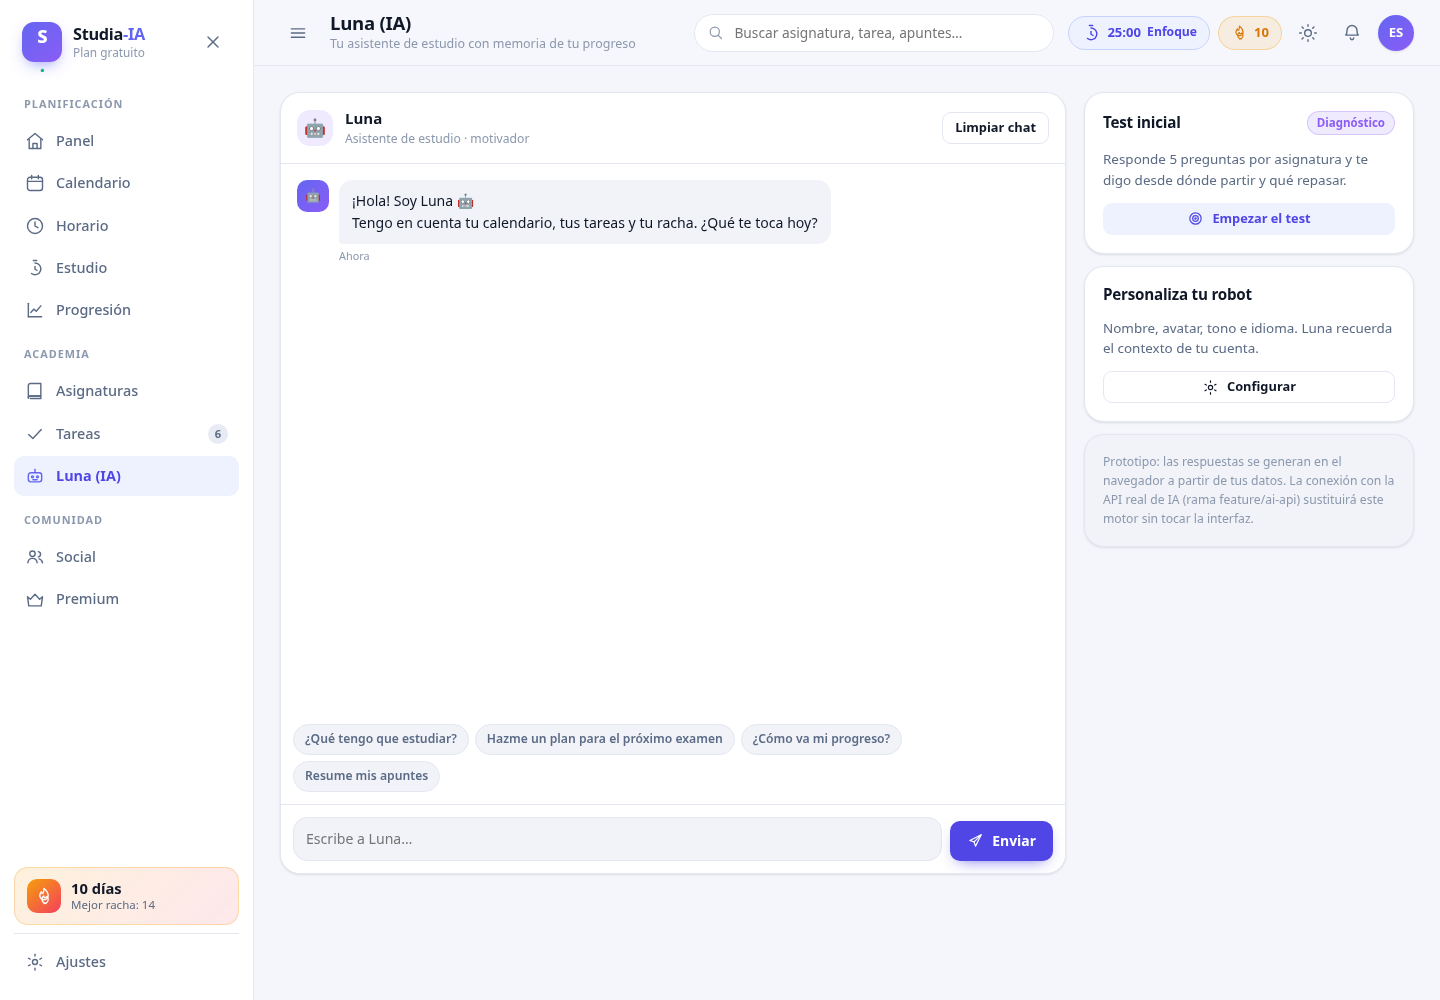
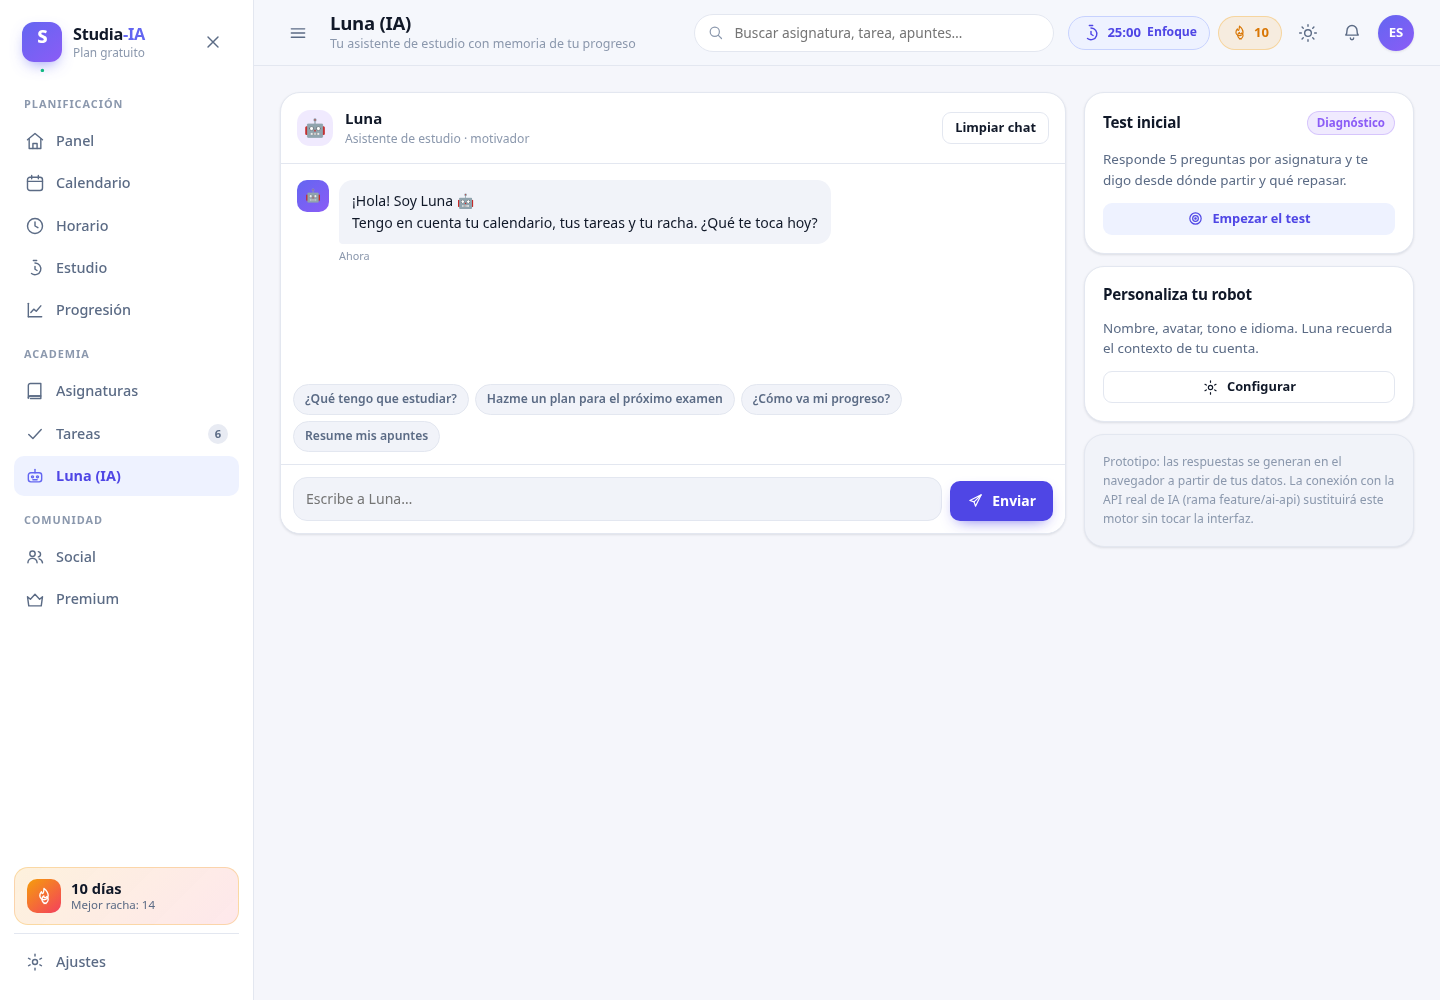
fix(scroll): la rueda del ratón no bajaba en algunas páginas
- base.css: barra de desplazamiento siempre visible y estilizada
- base.css: min-height en html/body (evita el bloqueo de scroll en WebKit)
- views.css: overflow: clip en hero/calendario/horario/asignaturas
  (overflow: hidden creaba contenedores que se comían la rueda)
- views.css: el chat usa max-height en vez de alto fijo
- layout.css: el menú lateral se compacta en pantallas bajas
- main.js: red de seguridad de scroll + botón 'volver arriba'

diff --git a/assets/js/main.js b/assets/js/main.js
@@ -320,6 +320,54 @@
     });
   }
 
+  /* ---------------- Scroll ----------------
+     Red de seguridad: si la rueda del ratón cae sobre un elemento que NO
+     puede desplazarse (tarjetas, tablas, celdas...), se desplaza la página.
+     Sin esto hay navegadores donde el scroll "se queda" y no baja nada. */
+  function canScroll(node) {
+    if (!node || node === document.body || node === document.documentElement) return false;
+    var s = getComputedStyle(node);
+    if (!/(auto|scroll|overlay)/.test(s.overflowY)) return false;
+    return node.scrollHeight - node.clientHeight > 1;
+  }
+  function scrollableAncestor(node) {
+    while (node && node !== document.body) {
+      if (canScroll(node)) return node;
+      node = node.parentElement;
+    }
+    return null;
+  }
+  function wireScroll() {
+    document.addEventListener('wheel', function (e) {
+      if (e.ctrlKey || e.defaultPrevented) return;
+      if (document.body.style.overflow === 'hidden') return;          // hay un modal abierto
+      if (scrollableAncestor(e.target)) return;                     // ese contenedor se encarga
+      var se = document.scrollingElement || document.documentElement;
+      var max = se.scrollHeight - se.clientHeight;
+      if (max <= 1) return;                                          // no hay nada más abajo
+      var next = se.scrollTop + e.deltaY;
+      if (next <= 0 || next >= max) return;                          // ya está en el borde
+      e.preventDefault();
+      se.scrollTop = next;
+    }, { passive: false });
+
+    /* Botón "volver arriba": deja claro que la página se ha desplazado. */
+    var top = U.h('button.to-top', { 'aria-label': 'Volver arriba', title: 'Volver arriba' }, U.icon('arrow-up'));
+    top.addEventListener('click', function () {
+      window.scrollTo({ top: 0, behavior: 'smooth' });
+    });
+    document.body.appendChild(top);
+    var ticking = false;
+    window.addEventListener('scroll', function () {
+      if (ticking) return;
+      ticking = true;
+      window.requestAnimationFrame(function () {
+        top.classList.toggle('is-visible', window.scrollY > 260);
+        ticking = false;
+      });
+    }, { passive: true });
+  }
+
   /* ---------------- Arranque ---------------- */
   function boot() {
     store.load();
@@ -335,6 +383,7 @@
     wireBell();
     wireProfile();
     wireShortcuts();
+    wireScroll();
     document.getElementById('btnTheme').addEventListener('click', toggleTheme);
     document.getElementById('btnSettings').addEventListener('click', openSettings);
 

diff --git a/assets/css/views.css b/assets/css/views.css
@@ -11,6 +11,7 @@
   border: 1px solid var(--border);
   border-radius: var(--radius-lg);
   overflow: hidden;
+  overflow: clip;
   box-shadow: var(--shadow-sm);
 }
 .cal__dow {
@@ -47,7 +48,7 @@
 .cal__head { display: flex; align-items: center; justify-content: space-between; gap: 4px; }
 .cal__num { font-size: .8rem; font-weight: 650; width: 24px; height: 24px; display: grid; place-items: center; }
 .cal__holiday { font-size: .68rem; color: var(--rose-500); font-weight: 600; line-height: 1.2; }
-.cal__events { display: flex; flex-direction: column; gap: 3px; margin-top: 2px; overflow: hidden; }
+.cal__events { display: flex; flex-direction: column; gap: 3px; margin-top: 2px; overflow: hidden; overflow: clip; }
 .cal__event {
   display: flex; align-items: center; gap: 5px;
   font-size: .7rem; font-weight: 600;
@@ -89,7 +90,7 @@
 }
 
 /* ================= Horario ================= */
-.tt { display: flex; flex-direction: column; border: 1px solid var(--border); border-radius: var(--radius-lg); overflow: hidden; box-shadow: var(--shadow-sm); background: var(--surface); }
+.tt { display: flex; flex-direction: column; border: 1px solid var(--border); border-radius: var(--radius-lg); overflow: hidden; overflow: clip; box-shadow: var(--shadow-sm); background: var(--surface); }
 .tt__head { display: grid; grid-template-columns: 64px repeat(5, minmax(0, 1fr)); background: var(--surface-2); }
 .tt__corner, .tt__day {
   padding: 10px 8px; text-align: center;
@@ -204,7 +205,8 @@
 /* ================= IA ================= */
 .chat {
   display: flex; flex-direction: column;
-  height: min(62vh, 560px);
+  max-height: min(62vh, 560px);
+  min-height: 220px;
   overflow-y: auto;
   padding: 16px;
   gap: 14px;
@@ -359,6 +361,7 @@
   box-shadow: var(--shadow-sm);
   position: relative;
   overflow: hidden;
+  overflow: clip;
 }
 .subject-card::before {
   content: ""; position: absolute; inset: 0 auto 0 0; width: 4px;
@@ -417,6 +420,7 @@
 .hero {
   position: relative;
   overflow: hidden;
+  overflow: clip;
   border-radius: var(--radius-xl);
   padding: 26px 28px;
   background: linear-gradient(135deg, var(--brand-600), var(--violet-500) 55%, #7c3aed);

diff --git a/assets/css/components.css b/assets/css/components.css
@@ -331,8 +331,30 @@
 }
 @keyframes shimmer { 0% { background-position: 100% 0; } 100% { background-position: 0 0; } }
 
+/* ---------- Volver arriba ---------- */
+.to-top {
+  position: fixed;
+  right: 22px; bottom: 22px;
+  width: 42px; height: 42px;
+  display: grid; place-items: center;
+  border-radius: 50%;
+  border: 1px solid var(--border);
+  background: var(--surface);
+  color: var(--text);
+  box-shadow: var(--shadow-md);
+  cursor: pointer;
+  opacity: 0; visibility: hidden;
+  transform: translateY(10px);
+  transition: opacity .2s ease, transform .2s ease, visibility .2s ease;
+  z-index: 45;
+}
+.to-top.is-visible { opacity: 1; visibility: visible; transform: none; }
+.to-top:hover { background: var(--brand-500); color: #fff; border-color: transparent; }
+.to-top .icon { width: 19px; height: 19px; }
+
 @media (max-width: 720px) {
   .modal { border-radius: var(--radius-lg); }
   .toast-root { left: 14px; right: 14px; bottom: 14px; }
   .toast { max-width: none; }
+  .to-top { right: 14px; bottom: 14px; width: 38px; height: 38px; }
 }

diff --git a/assets/css/base.css b/assets/css/base.css
@@ -88,7 +88,8 @@
 /* ---------- Reset ---------- */
 *, *::before, *::after { box-sizing: border-box; }
 
-html, body { height: 100%; }
+html, body { min-height: 100%; }
+html { overflow-y: scroll; }
 
 body {
   margin: 0;
@@ -100,6 +101,19 @@ body {
   -webkit-font-smoothing: antialiased;
   text-rendering: optimizeLegibility;
 }
+
+/* ---------- Barra de desplazamiento visible ----------
+   Con la barra siempre presente se ve de un vistazo que hay más contenido
+   abajo y siempre se puede arrastrar con el ratón. */
+::-webkit-scrollbar { width: 12px; height: 12px; }
+::-webkit-scrollbar-track { background: transparent; }
+::-webkit-scrollbar-thumb {
+  background: var(--border);
+  border: 3px solid var(--bg);
+  border-radius: 99px;
+}
+::-webkit-scrollbar-thumb:hover { background: var(--text-soft); }
+* { scrollbar-width: thin; scrollbar-color: var(--border) transparent; }
 
 h1, h2, h3, h4, h5 { margin: 0; font-weight: 700; letter-spacing: -.015em; line-height: 1.25; }
 h1 { font-size: 1.35rem; }

diff --git a/index.html b/index.html
@@ -34,6 +34,7 @@
     <symbol id="i-chev-down" viewBox="0 0 24 24"><path d="m6 9 6 6 6-6"/></symbol>
     <symbol id="i-close" viewBox="0 0 24 24"><path d="m6 6 12 12M18 6 6 18"/></symbol>
     <symbol id="i-menu" viewBox="0 0 24 24"><path d="M4 7h16M4 12h16M4 17h16"/></symbol>
+    <symbol id="i-arrow-up" viewBox="0 0 24 24"><path d="M12 20V5"/><path d="m5.5 11.5 6.5-6.5 6.5 6.5"/></symbol>
     <symbol id="i-upload" viewBox="0 0 24 24"><path d="M12 16V4"/><path d="m7.5 8.5 4.5-4.5 4.5 4.5"/><path d="M4 16v3a2 2 0 0 0 2 2h12a2 2 0 0 0 2-2v-3"/></symbol>
     <symbol id="i-link" viewBox="0 0 24 24"><path d="M10 13.5a4 4 0 0 0 5.7.3l2.5-2.5a4 4 0 1 0-5.7-5.7L11.2 6.9"/><path d="M14 10.5a4 4 0 0 0-5.7-.3l-2.5 2.5a4 4 0 1 0 5.7 5.7l1.3-1.3"/></symbol>
     <symbol id="i-fire" viewBox="0 0 24 24"><path d="M12 3s5 4 5 8.5a5 5 0 0 1-10 0C7 9 9 7 9 7s.5 2 1.5 2S12 3 12 3"/><path d="M12 21a5 5 0 0 0 5-5c0-1.2-.6-2.4-1.5-3.4-.6 1-1.6 1.4-2.3 1.4-1 0-1.6-.8-1.4-2.1-1.4 1-2.3 2.4-2.3 4.1a5 5 0 0 0 5 5"/></symbol>

diff --git a/assets/css/layout.css b/assets/css/layout.css
@@ -53,6 +53,22 @@
   letter-spacing: .09em; color: var(--text-soft);
   padding: 14px 10px 6px;
 }
+
+/* En pantallas bajas el menú se compacta para que quepa entero
+   (así la rueda del ratón nunca se queda "atrapada" en la barra lateral). */
+@media (max-height: 780px) {
+  .nav__label { padding: 9px 10px 4px; }
+  .nav__item { padding: 6px 11px; font-size: .87rem; }
+  .sidebar__streak { margin: 6px 0 0; padding: 8px 10px; }
+  .sidebar__brand { padding: 4px 8px 10px; }
+  .sidebar { padding: 12px 14px; }
+}
+@media (max-height: 700px) {
+  .nav__label { display: none; }
+  .nav__item { padding: 5px 11px; }
+  .sidebar__streak { display: none; }
+  .brand__text small { display: none; }
+}
 .nav__item {
   display: flex; align-items: center; gap: 11px;
   padding: 9px 11px;
